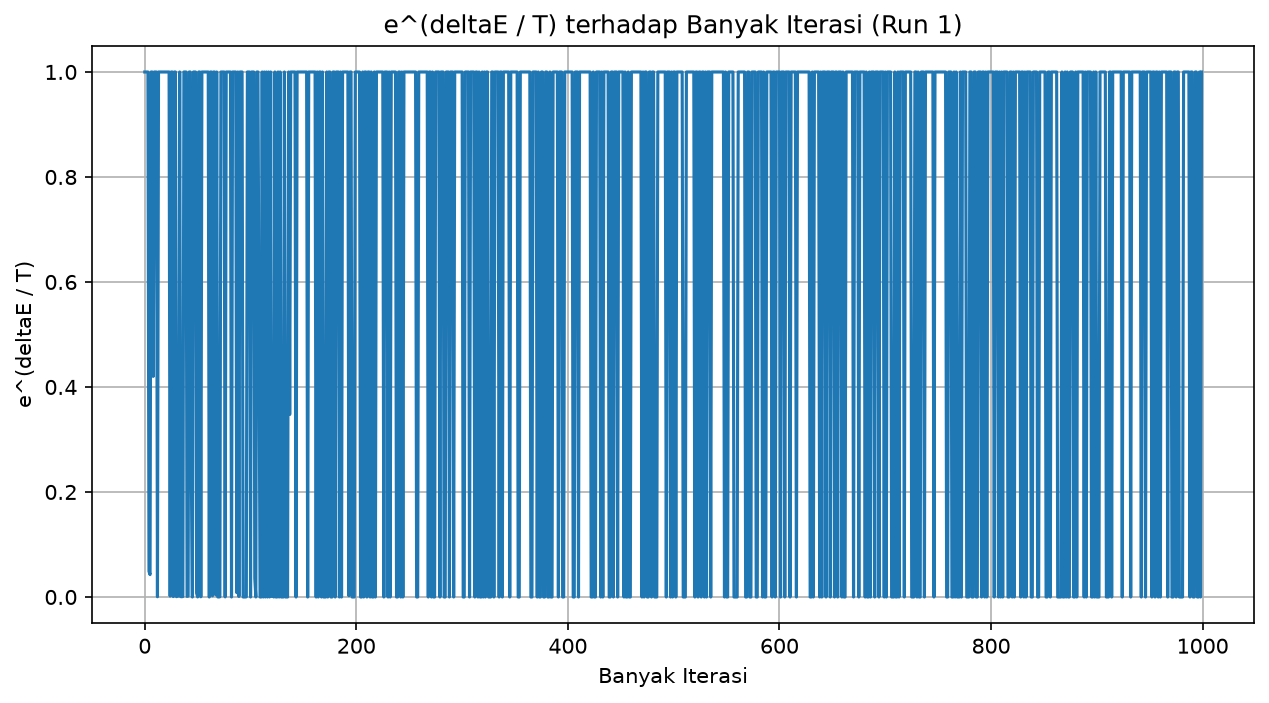
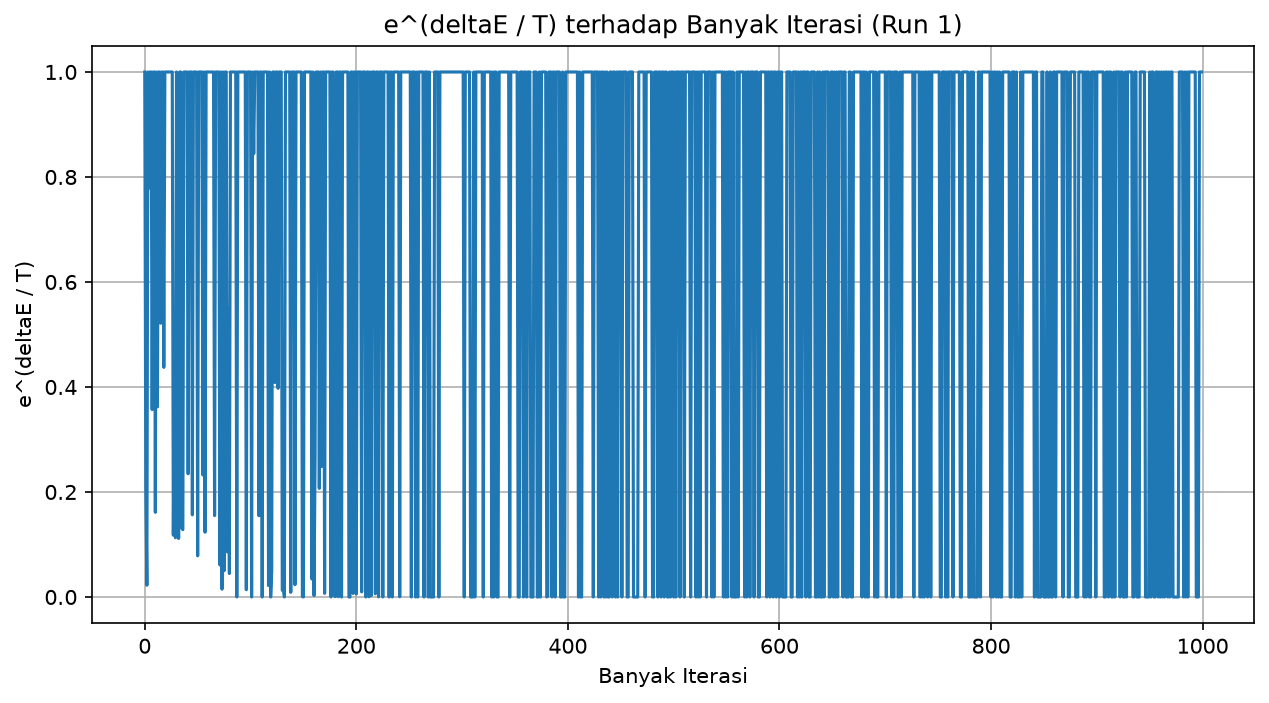
fix all

Changed region(s): [[0.0922, 0.0896, 0.9527, 0.8663]]

diff --git a/src/main_simulated_annealing.py b/src/main_simulated_annealing.py
@@ -53,7 +53,7 @@ def main_simulated_annealing():
         fig.savefig(os.path.join(out, f"{prefix}_run{run}_state_awal.png"), dpi=150, bbox_inches="tight")
 
         best_state, best_score, objective_function_value, stuck_count, duration, acceptance_probabilities = simulated_annealing.simulated_annealing(
-            copy.deepcopy(state), ship, max_iter=1000, init_temp=30, cooling_rate=0.99, stuck_threshold=10, objective=objective)
+            copy.deepcopy(state), ship, max_iter=1000, init_temp=100, cooling_rate=0.99, stuck_threshold=10, objective=objective)
 
         print(f"State akhir (objective function = {best_score})")
         #utils.display(best_state, ship)

diff --git a/src/simulated_annealing.py b/src/simulated_annealing.py
@@ -18,7 +18,7 @@ def get_neighbor(vehicles, ship):
     return neighbor
 
 
-def simulated_annealing(initial_state, ship, max_iter=1000, init_temp=30, cooling_rate=0.99, stuck_threshold=10, objective=utils.objective_function):  #awalnya kan pake 100, tapi ganti 1000 biar keliatan pola pendinginan
+def simulated_annealing(initial_state, ship, max_iter=1000, init_temp=100, cooling_rate=0.99, stuck_threshold=10, objective=utils.objective_function):  #awalnya kan pake 100, tapi ganti 1000 biar keliatan pola pendinginan
     #initialize
     start_time = time.perf_counter()
     #yang T besar <0.5 apa ya? cek catetan dulu
